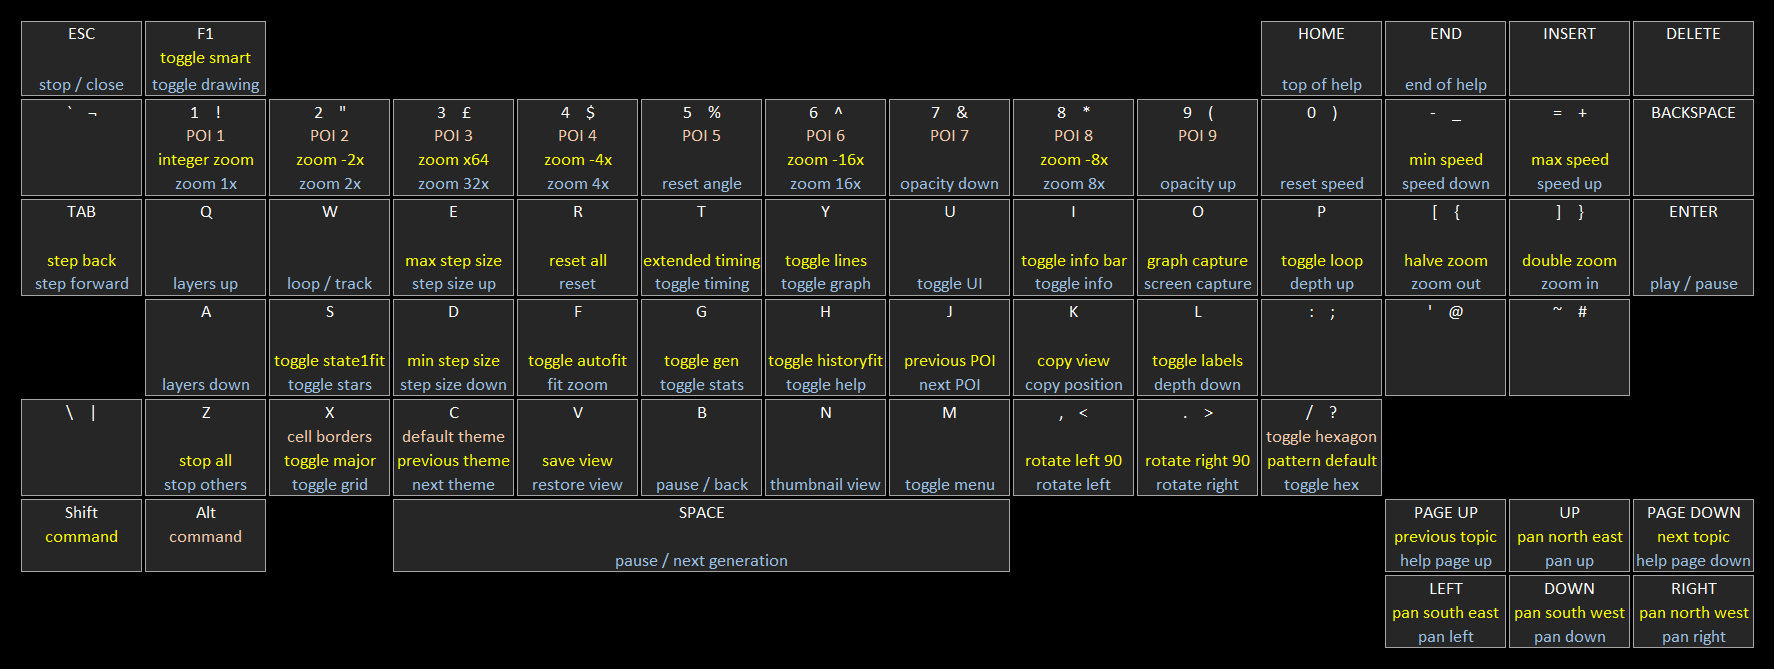
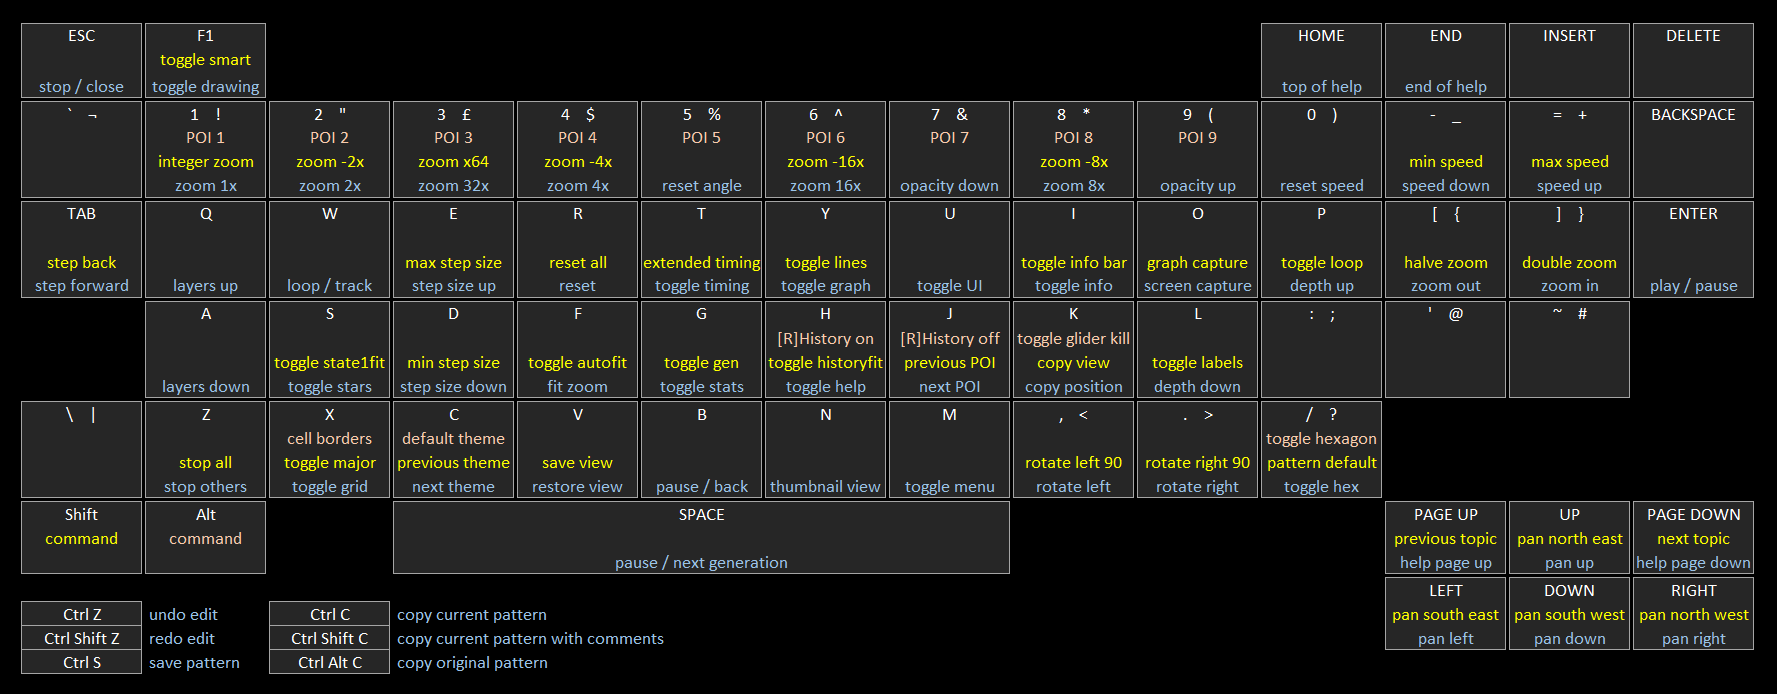
step back fix for undo

Changed region(s): [[0.0, 0.0299, 0.9921, 0.9865]]

diff --git a/js/lifeview.js b/js/lifeview.js
@@ -6765,6 +6765,9 @@
 						if (me.engine.counter > 0) {
 							// run from start to previous generation
 							me.runTo(me.engine.counter - 1);
+
+							// adjust undo stack pointer
+							me.setUndoGen(me.engine.counter);
 						}
 					} else {
 						// pause
@@ -6803,6 +6806,9 @@
 							if (me.engine.counter > 0) {
 								// run from start to previous step
 								me.runTo(me.engine.counter - me.gensPerStep);
+
+								// adjust undo stack pointer
+								me.setUndoGen(me.engine.counter - me.gensPerStep + 1);
 							}
 						} else {
 							// step forward

diff --git a/js/help.js b/js/help.js
@@ -744,6 +744,7 @@
 		y = this.renderHelpLine(view, "Shift F1", "toggle smart drawing", ctx, x, y, height, helpLine);
 		y = this.renderHelpLine(view, "Ctrl Z", "undo edit", ctx, x, y, height, helpLine);
 		y = this.renderHelpLine(view, "Ctrl+Shift Z", "redo edit", ctx, x, y, height, helpLine);
+		y = this.renderHelpLine(view, "Ctrl S", "save pattern", ctx, x, y, height, helpLine);
 		y = this.renderHelpLine(view, "", "", ctx, x, y, height, helpLine);
 
 		// help controls
